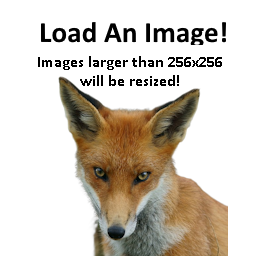
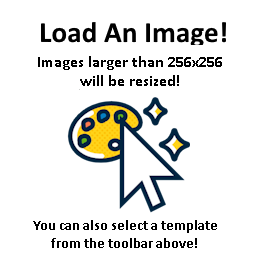
Working now but I got thrown off because the RP2350-Zero's neopixel seems to be showing red when it should be green? Investigating... Also update NoImagePlaceholder

diff --git a/TomodachiDrawer.UI.Avalonia/MainWindow.axaml.cs b/TomodachiDrawer.UI.Avalonia/MainWindow.axaml.cs
@@ -85,7 +85,6 @@ public partial class MainWindow : Window
         this.Title = $"TomodachiDrawer - {GetVersionString(false)}";
 #endif
 
-        StartPicoPolling();
         if (CheckForUpdatesCheckBox.IsChecked)
             _ = PerformAsyncUpdateCheck();
 
@@ -193,6 +192,8 @@ public partial class MainWindow : Window
             // Discard to avoid blocking.
             _ = _telemetry.ReportStart();
         }
+
+        StartPicoPolling();
     }
 
     // Welcome message stuff. For important changes, the ID is incremented by one by hand whenever something notable changes.

diff --git a/TomodachiDrawer.UI.Avalonia/UF2Flasher.cs b/TomodachiDrawer.UI.Avalonia/UF2Flasher.cs
@@ -16,7 +16,7 @@ internal static class UF2Flasher
             );
         const uint TargetBase = 0x10100000u; // 1MB into flash, so 1MB limit — same layout on both chips.
         const uint PayloadSize = 256u;
-        uint familyId = chip == RPChipType.RP2350 ? 0xe48bff59u : 0xE48BFF56u;
+        uint familyId = chip == RPChipType.RP2350 ? 0xe48bff57u : 0xE48BFF56u;
 
         int blockCount = (tdldData.Length + (int)PayloadSize - 1) / (int)PayloadSize;
         byte[] output = new byte[blockCount * 512];